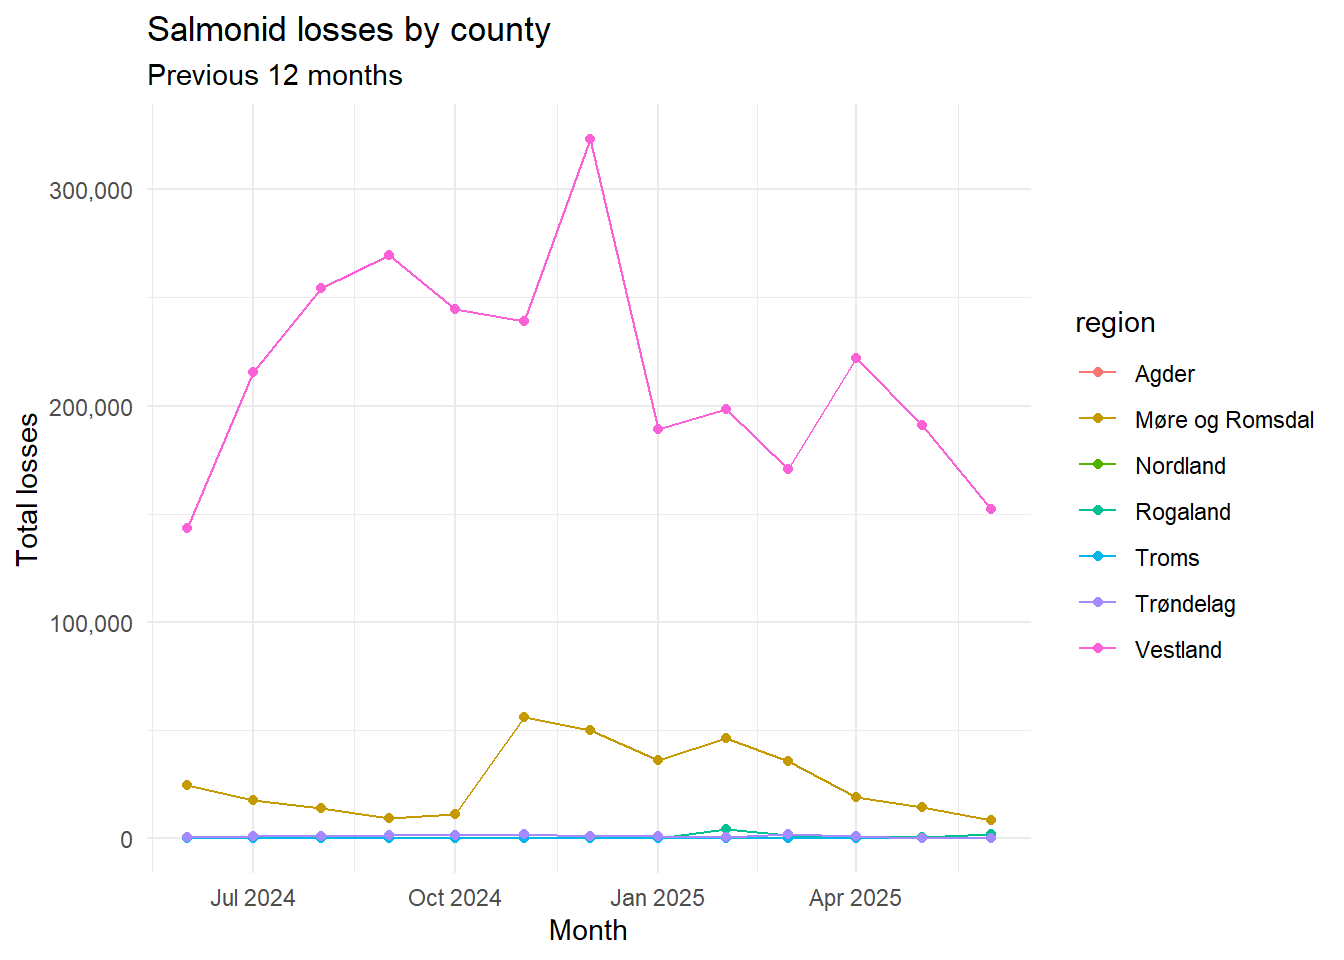
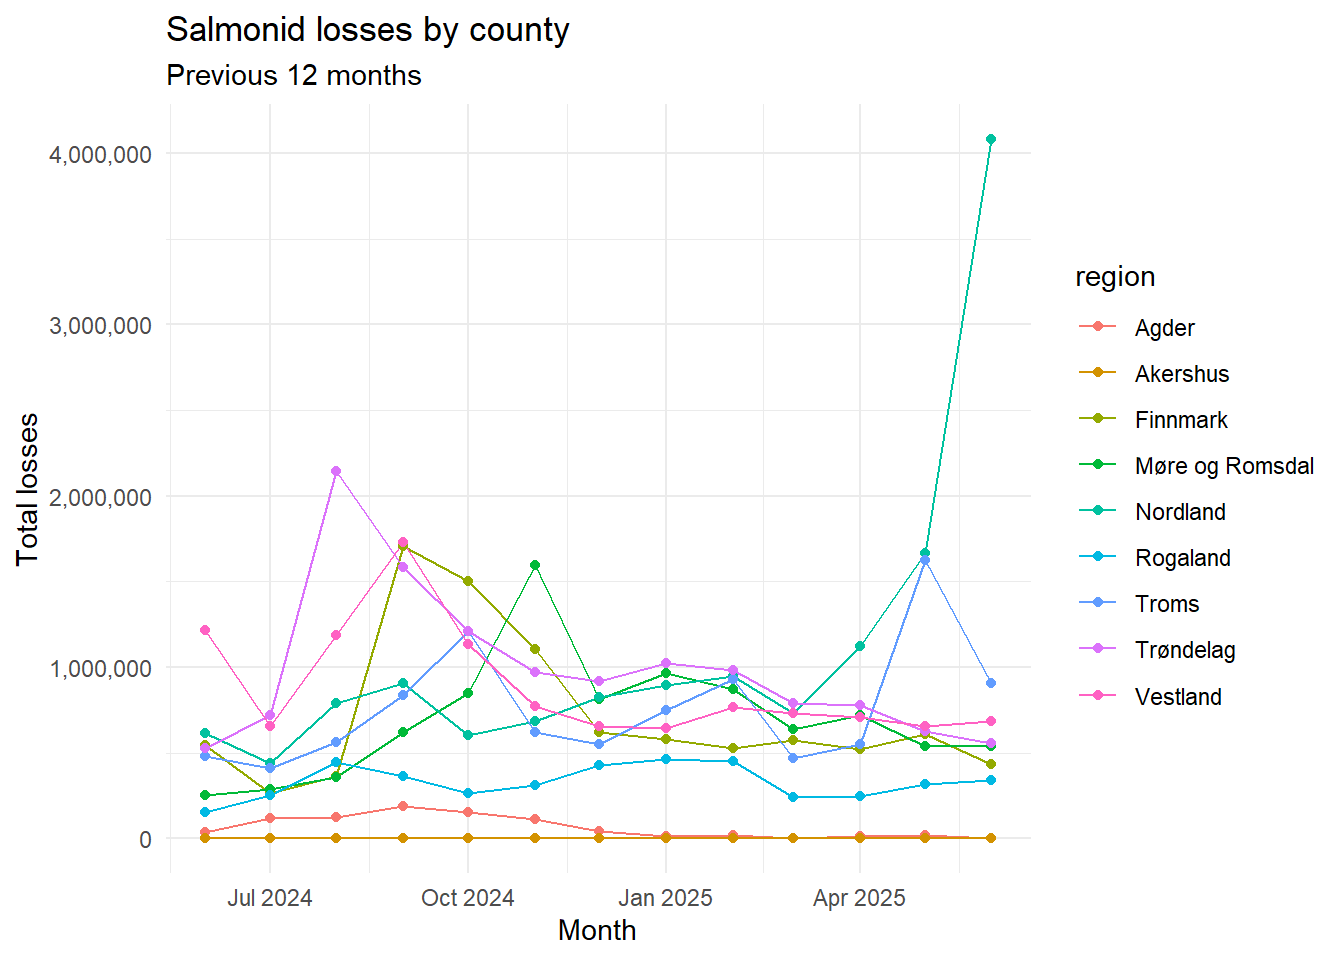
updating recording link

diff --git a/docs/index.html b/docs/index.html
@@ -150,7 +150,8 @@ ul.task-list li input[type="checkbox"] {
 <p>Have you ever spent hours formatting output from your R console into a Word document, copying and pasting chunks of code multiple times to run the same analysis on different data, or writing the world’s longest code comment to keep track of your analysis pipeline? Then this workshop is for you! Quarto is a free, open source, and highly flexible technical publishing system that can be used to create reproducible, production quality reports (and more) that integrate code, output, and text. In this training, you will receive an in-depth introduction to how to use Quarto to combine text, R code, and output into reproducible reports, in addition to automating repeat analysis with Quarto parameters.</p>
 <ul>
 <li><p><strong>Survey:</strong> Please be sure to take our <a href="https://jh.qualtrics.com/jfe/form/SV_e3UQpWkHBRmsh38">survey</a> and let us know your feedback about your “Creating Automated Reports in R: An Introduction to Quarto” session.</p></li>
-<li><p><strong>Slides</strong>: The slides are available <a href="https://jhu-data-services.github.io/dplyr-quarto-site/Manipulating%20and%20Joining%20Data%20in%20R%20with%20dplyr.html">here</a> (or above using the <code>Presentation</code> link).</p></li>
+<li><p><strong>Slides</strong>: The slides are available <a href="https://jhu-data-services.github.io/jhuds-quarto-site/CreatingAutomatedReportsinRIntroQuarto.html#/title-slide">here</a> (or above using the <code>Presentation</code> link).</p></li>
+<li><p><strong>Recording:</strong> The recording is available at <a href="https://bit.ly/jhuds-quarto-recording" class="uri">https://bit.ly/jhuds-quarto-recording</a>.</p></li>
 </ul>
 <section id="section" class="level2">
 <h2 class="anchored" data-anchor-id="section"></h2>

diff --git a/README.md b/README.md
@@ -10,8 +10,6 @@ JHU Data Services, part of the Johns Hopkins University Sheridan Libraries, help
 
 This repository contains materials for one of our live webinars open to JHU students, faculty, and staff. Please [contact us](mailto:dataservices@jhu.edu) with any questions.
 
-As of March 2020, Data Services workshops are being held virtually on Zoom. [See our calendar to register for upcoming workshops.](https://dataservices.library.jhu.edu/training-workshops/calendar/)
-
 ## Pre-Class Instructions
 
 Before the class, make sure you have a recent version of R and RStudio installed: https://posit.co/download/rstudio-desktop/
